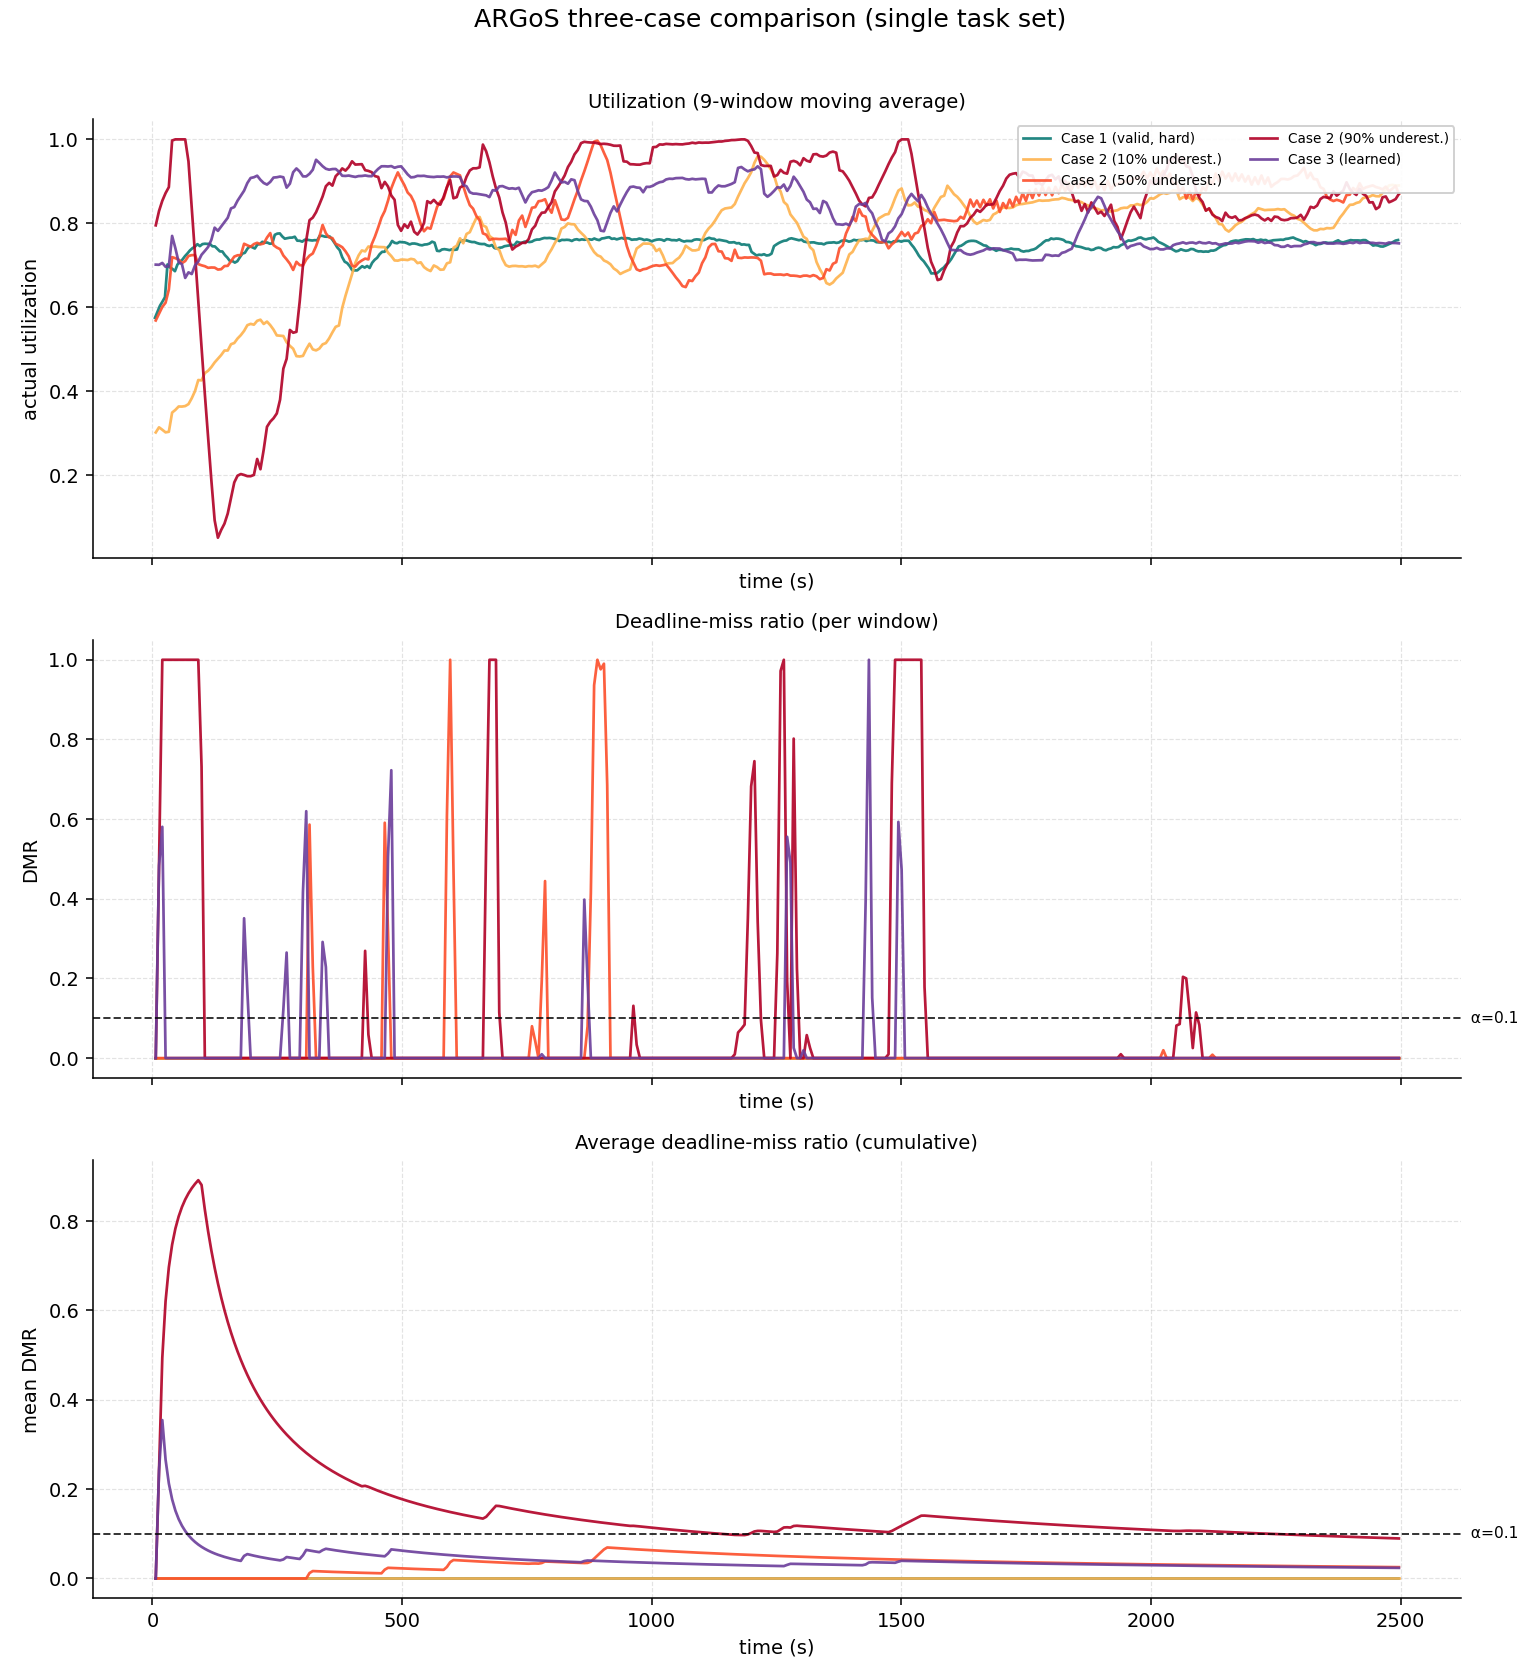
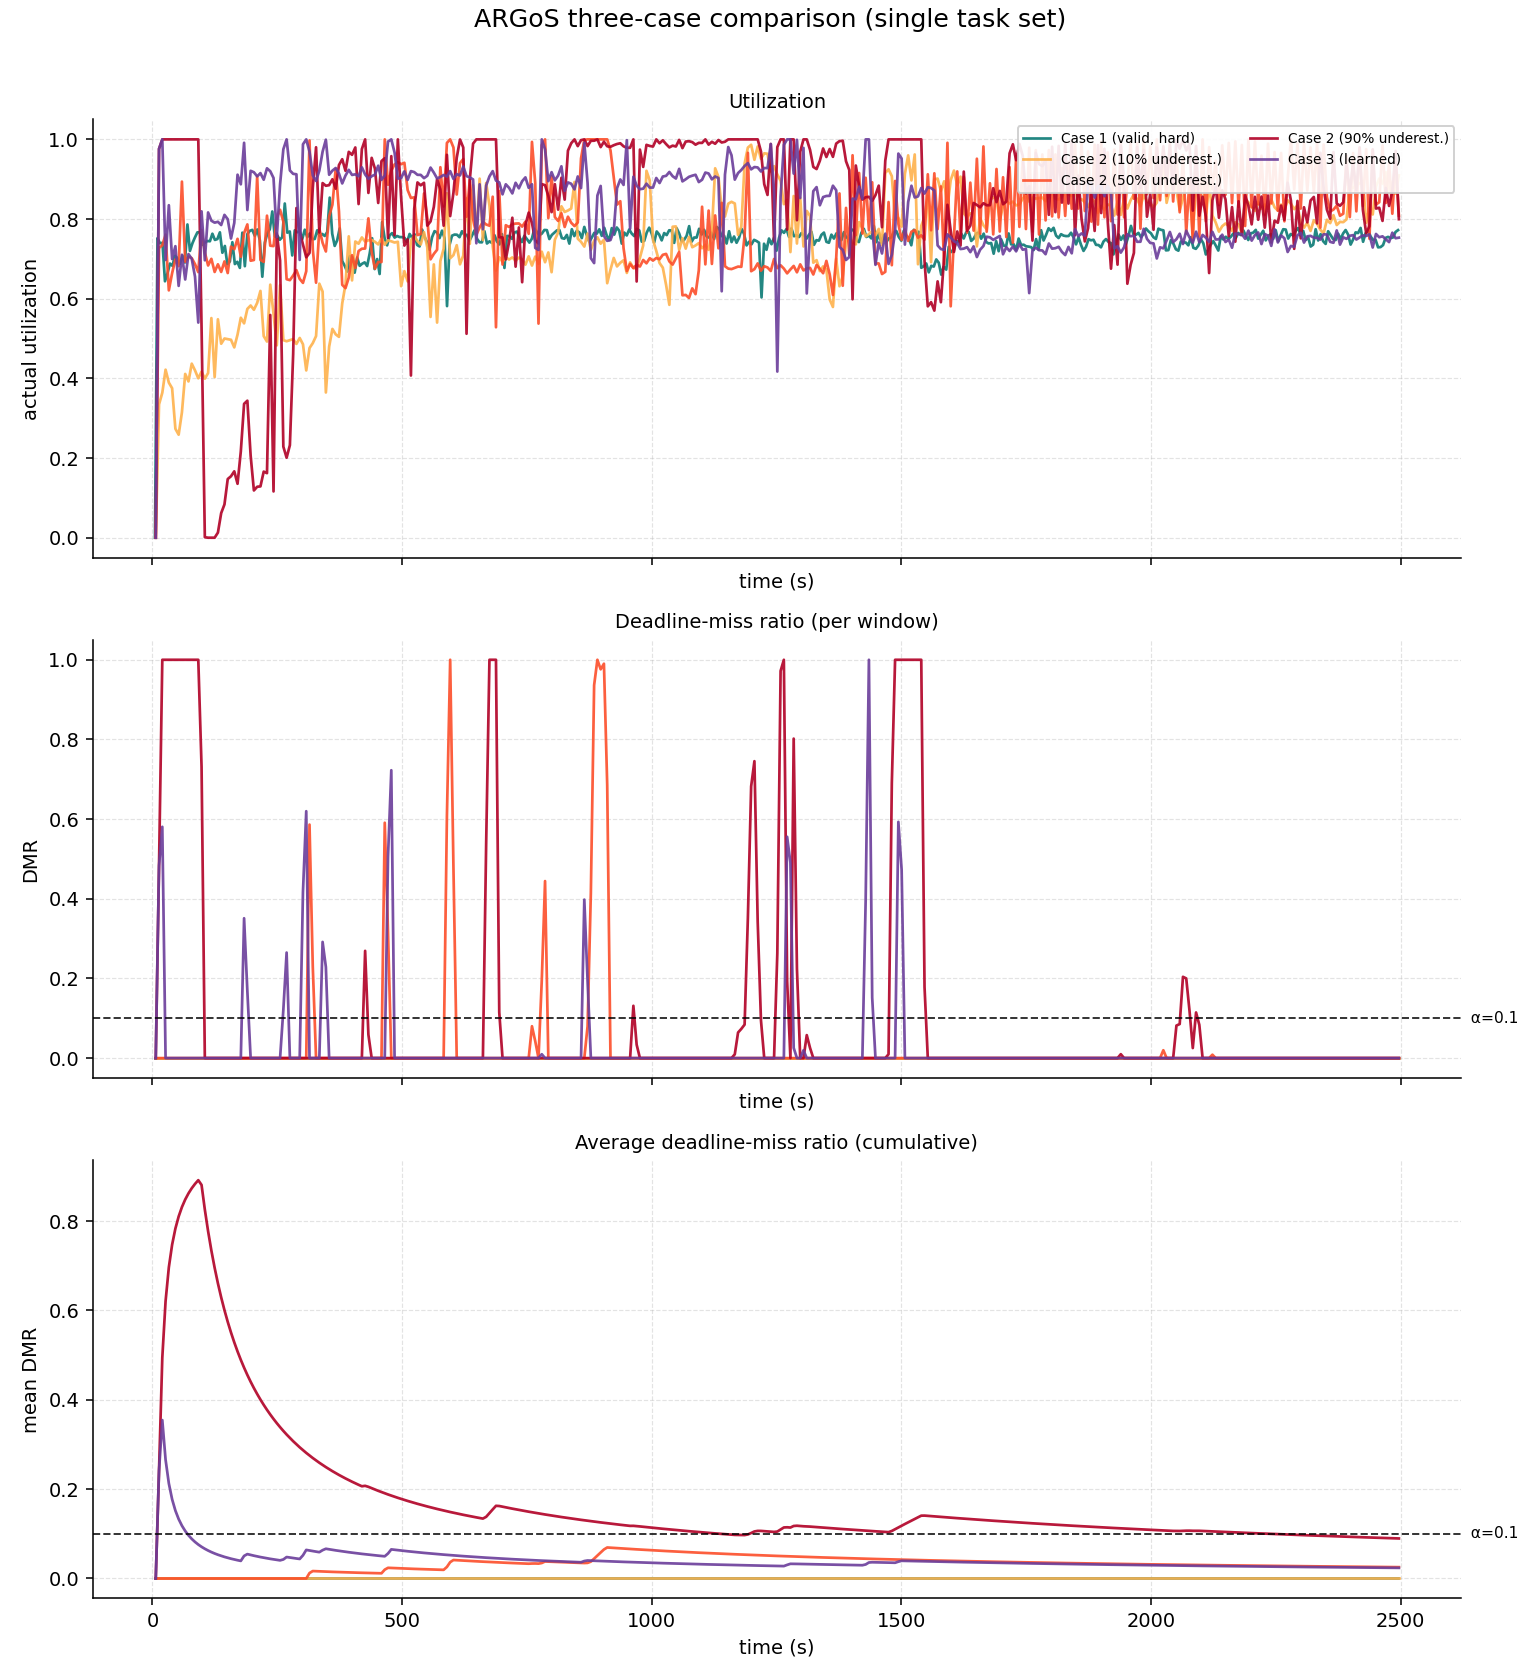
Figures: utilization panel raw (smoothing disabled)

Changed region(s): [[0.0935, 0.031, 0.9039, 0.3405], [0.0312, 0.1238, 0.0623, 0.1857], [0.0312, 0.2167, 0.0623, 0.2476]]

diff --git a/scripts/fig_three_cases.py b/scripts/fig_three_cases.py
@@ -146,7 +146,7 @@ def plot():
         _style(ax)
 
     panels = [
-        ("util", "Utilization (9-window moving average)", "actual utilization", None, 9),
+        ("util", "Utilization", "actual utilization", None, 1),
         ("dmr", "Deadline-miss ratio (per window)", "DMR", ALPHA, 1),
         ("avg_dmr", "Average deadline-miss ratio (cumulative)", "mean DMR", ALPHA, 1),
     ]
